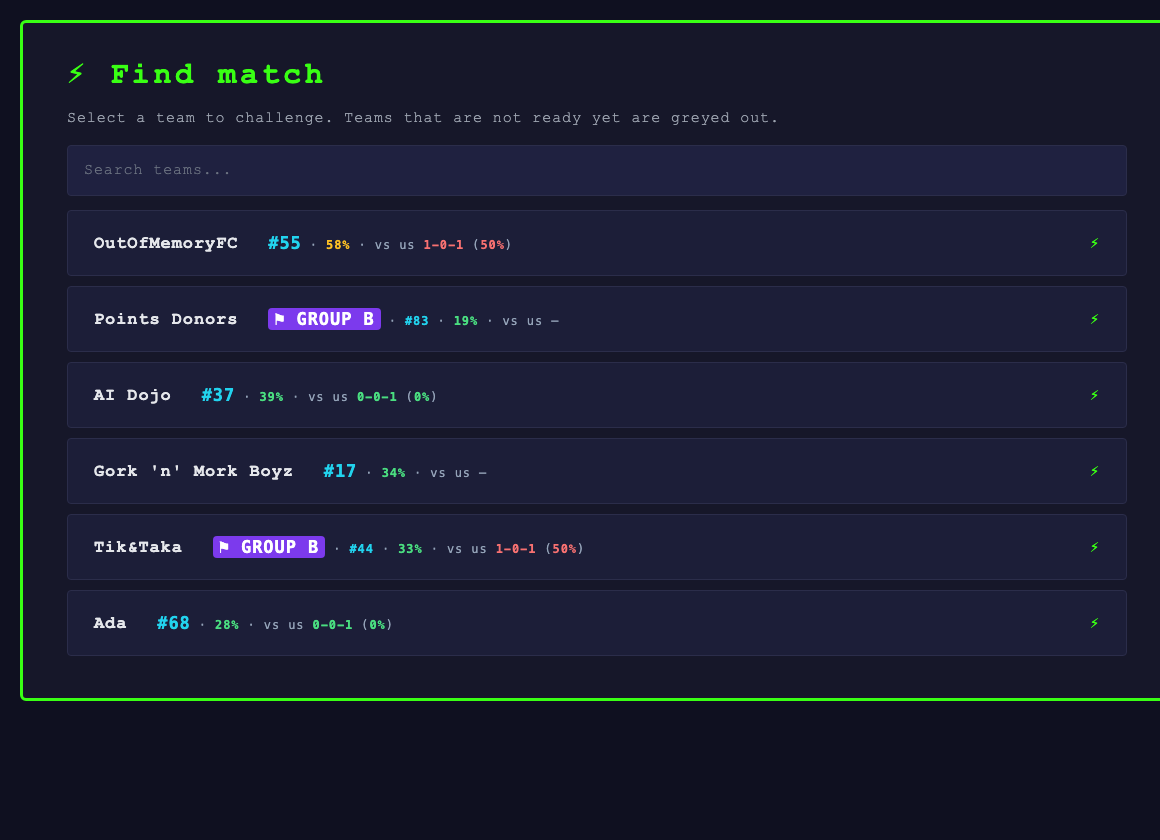
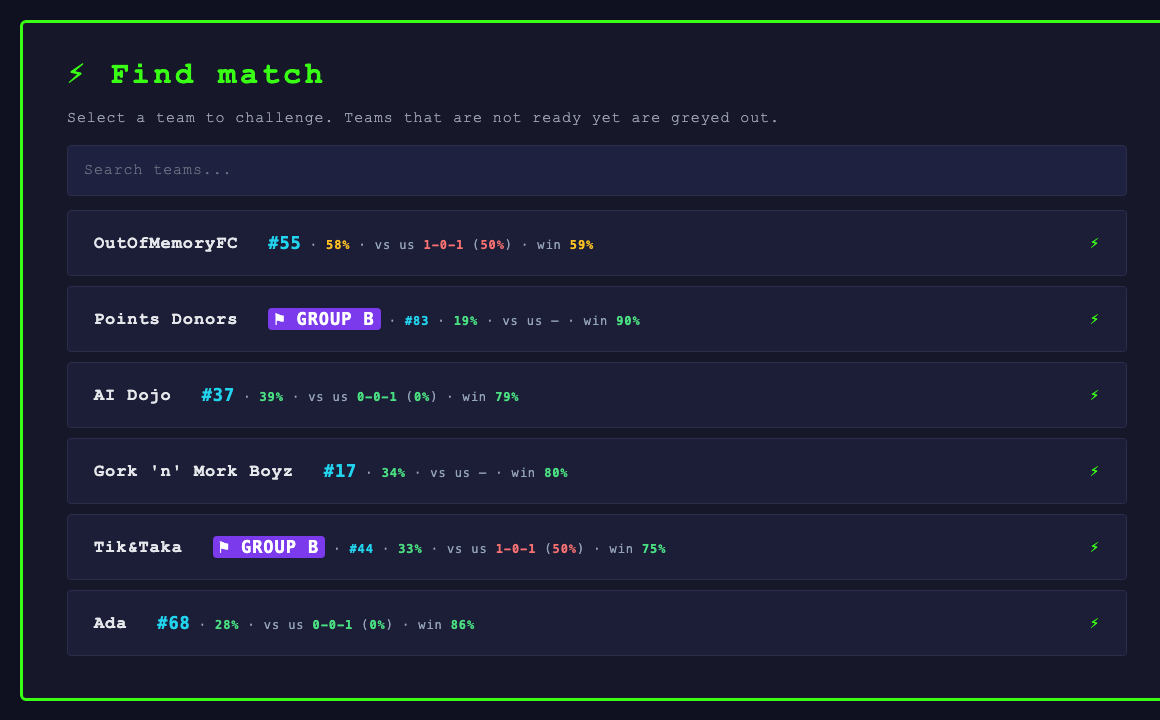
recorder 1.43

diff --git a/extension/bridge.js b/extension/bridge.js
@@ -417,6 +417,22 @@
     setInterval(() => { if (document.visibilityState === "visible") portalSync(false); }, 5 * 60e3);
   }
 
+// 1.43: our chances against a team — log5 on the two overall win rates (draws: the two teams' average draw
+  // share), nudged by our head-to-head record with weight 8 (on our 69 real matches h2h added nothing beyond
+  // that: Brier 0.43, the likeliest outcome right 64%). Returns {w, d, l} (0..1) and decimal odds, or null.
+  const winChance = (lb, opp, ms, oppWr) => {
+    if (!lb || !lb.teams) return null;
+    const meRow = lb.teams.find(t => lb.us && ((lb.us.id && t.id === lb.us.id) || String(t.name).trim().toLowerCase() === String(lb.us.name || "").trim().toLowerCase()));
+    if (!meRow || !meRow.p) return null;
+    const A = meRow.w / meRow.p, B = opp && opp.p ? opp.w / opp.p : (oppWr != null ? oppWr / 100 : 0.5);
+    const dr = Math.min(0.3, ((meRow.d / meRow.p) + (opp && opp.p ? opp.d / opp.p : meRow.d / meRow.p)) / 2);
+    const P = A * (1 - B) + B * (1 - A) > 0 ? A * (1 - B) / (A * (1 - B) + B * (1 - A)) : 0.5;
+    const k = 8, list = ms || [], w = list.filter(m => m.us > m.them).length, l = list.filter(m => m.us < m.them).length, n = list.length;
+    const W = (w + k * P * (1 - dr)) / (n + k), L = (l + k * (1 - P) * (1 - dr)) / (n + k), D = Math.max(0, 1 - W - L);
+    const odds = p => p > 0.02 ? (1 / p).toFixed(p > 0.5 ? 2 : 1) : "50+";
+    return { w: W, d: D, l: L, odds: [odds(W), odds(D), odds(L)] };
+  };
+
   // ---- Match panel over the viewer's "Coach Live Feed" card (1.16): opponent's place, win rate
   // and our record against them, our place, both teams' ping per position, the recording and
   // the switches. "▾" folds it to its title so the coach feed shows again (remembered).
@@ -576,8 +592,8 @@
       const seq = FORM.last.map(x => `<i class="${x.r}" title="${E(x.t)}">${x.r}</i>`).join("");
       const day = FORM.day.n ? `${FORM.day.wr}% <span class="m">· ${FORM.day.n} games</span>` : `<span class="m">no games</span>`;
       const arrow = FORM.day.n >= 3 && FORM.all.n ? (FORM.day.wr > FORM.all.wr + 10 ? ` <span class="r">▲</span>` : FORM.day.wr < FORM.all.wr - 10 ? ` <span class="g">▼</span>` : "") : "";
-      return `<div class="kv"><span title="their last 5, newest first (red = they won)">Form</span><span class="fr">${seq}</span></div>
-        <div class="kv"><span>Last 24 h</span><span>${day}${arrow}</span></div>
+      return `<div class="kv"><span title="the opponent's last 5 matches, newest first: W = they won (red), L = they lost (green), D = draw">Their last 5</span><span class="fr">${seq}</span></div>
+        <div class="kv"><span title="their win rate over the last 24 h (▲ / ▼: more than 10 points above / below their overall)">Their last 24 h</span><span>${day}${arrow}</span></div>
         <div class="kv"><span>Goals / game</span><span>${FORM.all.gf}:${FORM.all.ga} <span class="m">· last ${FORM.all.n}</span></span></div>`;
     };
     const loadForm = () => {
@@ -670,8 +686,17 @@
         ot ? `<span class="chip">#<b>${ot.rank}</b> of ${H.lb.total || H.lb.teams.length}</span>` : "",
         wr != null ? `<span class="chip">WR <b class="${wr >= 60 ? "r" : wr >= 45 ? "o" : "g"}">${wr}%</b></span>` : "",
         vs != null ? `<span class="chip">vs us <b class="${vs >= 50 ? "r" : vs >= 25 ? "o" : "g"}">${vs}%</b></span>` : (H ? `<span class="chip">never played us</span>` : "")].join("");
-      const oppBody = `<div class="kv"><span>Win rate</span><span>${ot ? `<b class="${wr >= 60 ? "r" : wr >= 45 ? "o" : "g"}">${wr}%</b> <span class="m">· ${ot.w}-${ot.d}-${ot.l}</span>` : `<span class="m">${H ? "not in the table" : "…"}</span>`}</span></div>
-          <div class="kv"><span>Win rate vs us</span><span>${!H ? "…" : ms.length ? `<b class="${l > w ? "r" : l === w ? "o" : "g"}">${vs}%</b> <span class="m">· ${l} of ${ms.length}</span>` : `<span class="m">never played</span>`}</span></div>
+      const wc = H ? winChance(H.lb, ot, ms, FORM && FORM.ok ? FORM.all.wr : null) : null;
+      const wcp = wc ? Math.round(100 * wc.w) : null;
+      const wcChip = wc ? `<span class="chip" title="estimate from both win rates and our record against them">win chance <b class="${wcp >= 60 ? "g" : wcp >= 40 ? "o" : "r"}">${wcp}%</b></span>` : "";
+      const wcRow = wc ? `<div class="kv"><span title="estimate: both teams' win rates (log5) and our record against them">Our win chance</span><span><b class="${wcp >= 60 ? "g" : wcp >= 40 ? "o" : "r"}">${wcp}%</b></span></div>
+          <div class="br" style="grid-template-columns:1fr;margin:3px 0 1px"><div class="t"><i style="width:${100 * wc.w}%;background:#4ade80"></i><i style="width:${100 * wc.d}%;background:#fbbf24"></i><i style="width:${100 * wc.l}%;background:#f87171"></i></div></div>
+          <div class="note" style="margin:0 0 4px" title="decimal odds = 1 / chance: what a fair bet would pay">win ${wcp}% · draw ${Math.round(100 * wc.d)}% · lose ${Math.round(100 * wc.l)}% · odds ${wc.odds.join(" / ")}</div>` : "";
+      const ourWr = ms.length ? pct(w, ms.length) : null;
+      const oppBody = `${wcRow}
+          <div class="kv"><span>Our win rate vs them</span><span>${ourWr == null ? `<span class="m">never played</span>` : `<b class="${ourWr >= 60 ? "g" : ourWr >= 40 ? "o" : "r"}">${ourWr}%</b> <span class="m">· ${w} of ${ms.length}</span>`}</span></div>
+          <div class="kv"><span>Their win rate</span><span>${ot ? `<b class="${wr >= 60 ? "r" : wr >= 45 ? "o" : "g"}">${wr}%</b> <span class="m">· ${ot.w}-${ot.d}-${ot.l}</span>` : `<span class="m">${H ? "not in the table" : "…"}</span>`}</span></div>
+          <div class="kv"><span>Their win rate vs us</span><span>${!H ? "…" : ms.length ? `<b class="${l > w ? "r" : l === w ? "o" : "g"}">${vs}%</b> <span class="m">· ${l} of ${ms.length}</span>` : `<span class="m">never played</span>`}</span></div>
           <div class="kv"><span>Our record</span><span>${ms.length ? `<b class="${w > l ? "g" : w < l ? "r" : "o"}">${w}-${d}-${l}</b> <span class="m">· ${gf}:${ga}</span>` : "—"}</span></div>
           ${formRows()}
           ${last ? `<div class="kv"><span>Last vs us</span><span>${last.us}:${last.them}${last.version ? ` <span class="m">· ${E(last.version)}</span>` : ""}</span></div>` : ""}`;
@@ -693,7 +718,7 @@
       box.className = "drk" + (folded ? " folded" : "");
       box.innerHTML = `<div class="hd"><span class="nm" title="${E(oppName)}">${E(oppName)}</span>${folded && sc ? `<b>${sc}</b>` : ""}
           <button data-fold title="${folded ? "Show the panel" : "Fold, show the Coach Live Feed"}">${folded ? "▸" : "▾"}</button></div>
-        <div class="chips">${chips}</div>
+        <div class="chips">${wcChip}${chips}</div>
         <div class="bd">
           ${sec("opp", "Opponent", oppBody)}
           ${stripOn ? `<div class="sec"><div class="note">This match and the agents: <b>under the game</b> ↙</div></div>`
@@ -831,6 +856,10 @@
         parts.push(`vs us <b class="${cls}">${l}-${d}-${w}</b> (<b class="${cls}">${vs}%</b>)`);
         tip.push(`vs us: they won ${l} of ${ms.length}; our record ${w}-${d}-${l}, goals ${gf}:${ga}, last ${last.us}:${last.them}`);
       } else { parts.push("vs us —"); tip.push("never played us"); }
+      const wc = winChance(HB.lb, t, ms, null);   // 1.43
+      if (wc && t) { const p = Math.round(100 * wc.w);
+        parts.push(`win <b class="${p >= 60 ? "g" : p >= 40 ? "o" : "r"}">${p}%</b>`);
+        tip.push(`our win chance ${p}% · draw ${Math.round(100 * wc.d)}% · lose ${Math.round(100 * wc.l)}% (odds ${wc.odds.join(" / ")})`); }
       return { html: parts.join(" · "), title: tip.join("\n") };
     };
     const dialog = () => {

diff --git a/extension/popup.js b/extension/popup.js
@@ -315,6 +315,16 @@ setInterval(loadPing, 20000);
 let H2H = null;
 const normName = n => String(n || "").replace(/\s*\((\u043b\u044e\u0434\u0438\u043d\u0430|human)\)/i, "").trim().toLowerCase();
 const usName = () => (H2H && H2H.lb && H2H.lb.us && H2H.lb.us.name) || "The Drunkards";
+// 1.43: our win chance — same estimate as the match panel (log5 on both win rates + our record, weight 8)
+function winChance(lb, opp, ms) {
+  if (!lb || !lb.teams || !opp || !opp.p) return null;
+  const me = lb.teams.find(t => lb.us && ((lb.us.id && t.id === lb.us.id) || normName(t.name) === normName(lb.us.name)));
+  if (!me || !me.p) return null;
+  const A = me.w / me.p, B = opp.w / opp.p, dr = Math.min(0.3, (me.d / me.p + opp.d / opp.p) / 2);
+  const P = A * (1 - B) + B * (1 - A) > 0 ? A * (1 - B) / (A * (1 - B) + B * (1 - A)) : 0.5;
+  const k = 8, w = ms.filter(m => m.us > m.them).length, l = ms.filter(m => m.us < m.them).length, n = ms.length;
+  return { w: (w + k * P * (1 - dr)) / (n + k), l: (l + k * (1 - P) * (1 - dr)) / (n + k) };
+}
 function oppLine(name, id) {
   if (!H2H) return "";
   const lb = H2H.lb, key = normName(name);
@@ -330,6 +340,8 @@ function oppLine(name, id) {
     const cls = w > l ? "lat-ok" : w < l ? "lat-bad" : "lat-mid";
     parts.push(`us vs them <b class="${cls}">${w}-${d}-${l}</b> (${gf}:${ga}), last ${last.us}:${last.them}`);
   } else parts.push("never played");
+  const wc = winChance(lb, t, ms);
+  if (wc) { const p = Math.round(100 * wc.w); parts.push(`our win chance <b class="${p >= 60 ? "lat-ok" : p >= 40 ? "lat-mid" : "lat-bad"}">${p}%</b>`); }
   return parts.join(" · ");
 }
 const loadH2H = () => chrome.runtime.sendMessage({ type: "popup-h2h" }, r => { if (r && r.ok) { H2H = r; refresh(); renderInvites(); renderGroup(); } });

diff --git a/README.md b/README.md
@@ -5,7 +5,7 @@
 **Scout every opponent, never lose a match recording, and never miss a challenge in the Agentic Football Cup.**
 
 ![Chrome](https://img.shields.io/badge/Chrome-extension-4285F4?logo=googlechrome&logoColor=white)
-![Version](https://img.shields.io/badge/version-1.42-22d3ee)
+![Version](https://img.shields.io/badge/version-1.43-22d3ee)
 ![Manifest](https://img.shields.io/badge/Manifest-V3-6e56cf)
 ![Install](https://img.shields.io/badge/install-one%20command-4ade80)
 ![Privacy](https://img.shields.io/badge/data-stays%20on%20your%20Mac-94a3b8)
@@ -17,6 +17,8 @@
 </div>
 
 ---
+
+<p align="center"><b>⭐ If it helps your team, give it a star — it helps other teams find it.</b></p>
 
 ## 🚀 Install in one minute
 
@@ -51,6 +53,7 @@ at the top — press it and the plugin installs the new version and reloads itse
 
 | | |
 |---|---|
+| 🎲 **Your win chance** | Before you challenge and during the match: the chance to win, draw or lose against that team, with fair odds. |
 | 🔍 **Scouting panel in the viewer** | The opponent's place in the table, win rate overall and **against you**, your record and goals, the last result — while the match is on. |
 | 🎯 **Smarter opponent picking** | Every team in *Find match* shows its rank, win rate overall and **win rate against you**, so you challenge the right teams. |
 | 📼 **Every match recorded** | Ball, all 10 players and their actions ~40× a second, the commentary, the portal's report and a screenshot of the final score — saved by themselves. |
@@ -79,6 +82,7 @@ at the top — press it and the plugin installs the new version and reloads itse
 Open **Find opponent** and every team already tells you how it stands:
 
 - `⚑ GROUP B` — the team is in your tournament group ([load your group](#-your-tournament-group))
+- `win 79%` — your chance to beat them (hover for draw / lose and the odds)
 - `#24` — place in the tournament table
 - `43%` — their win rate overall (red from 60%, yellow from 45%)
 - `vs us 3-0-3 (50%)` — their wins-draws-losses against **you**, and how often they beat you
@@ -107,8 +111,9 @@ Before kick-off it simply says *waiting*. **→ side panel** moves it into the r
 
 ### The opponent panel
 
-The viewer's right column (in place of the empty Coach Live Feed): the opponent's **place**, **win rate overall**
-and **against you**, **your record and goals**, their **form** (last 5 results, rising or falling over 24 h),
+The viewer's right column (in place of the empty Coach Live Feed): **your win chance** (win / draw / lose bar and
+fair odds), **your win rate against them**, the opponent's **place**, **win rate overall** and **against you**, **your record and goals**, **their last 5** results (W = they won, L = they lost) and whether
+they are rising or falling over 24 h,
 the **last match** between you, your agents' **ping** per position and what the plugin is doing. Sections fold
 one by one; **▾** folds the whole panel to show the Coach Live Feed. It appears whether you started the match
 yourself or accepted a challenge.
@@ -189,6 +194,15 @@ countdown, **Accept** and **🔇** to silence the chime) and **Update** next to 
 | **Match** | this match: recording, report and score screenshot, each ✓ when saved, plus warnings · **Last match**: result, shots, xG, possession, silent agents · **Stop & save**, **Screenshot**, **Folder**, **Day summary** · your agents' **ping** |
 | **Form** | **Our form**: W-D-L, win rate and goals per block of 10 matches (real opponents only) · **Recent matches** with ✓/✗ per file — click one to open its report |
 | **⚙ Settings** | the switches (Auto-START, Auto-accept, Chime, Record in background, Save portal data) · **My group** with its table |
+
+---
+
+## 🎲 How the win chance is worked out
+
+Both teams' overall win rates are combined with the classic **log5** formula (the chance that A beats B when A wins
+`a` of its games and B wins `b`), draws take the two teams' average draw share, and your head-to-head record nudges
+the result (it counts like 8 extra games at the estimate). Fair odds = 1 / chance. Checked on 69 real matches: the
+likeliest outcome was right 64% of the time. It is an estimate, not a promise — agents change between matches.
 
 ---
 
